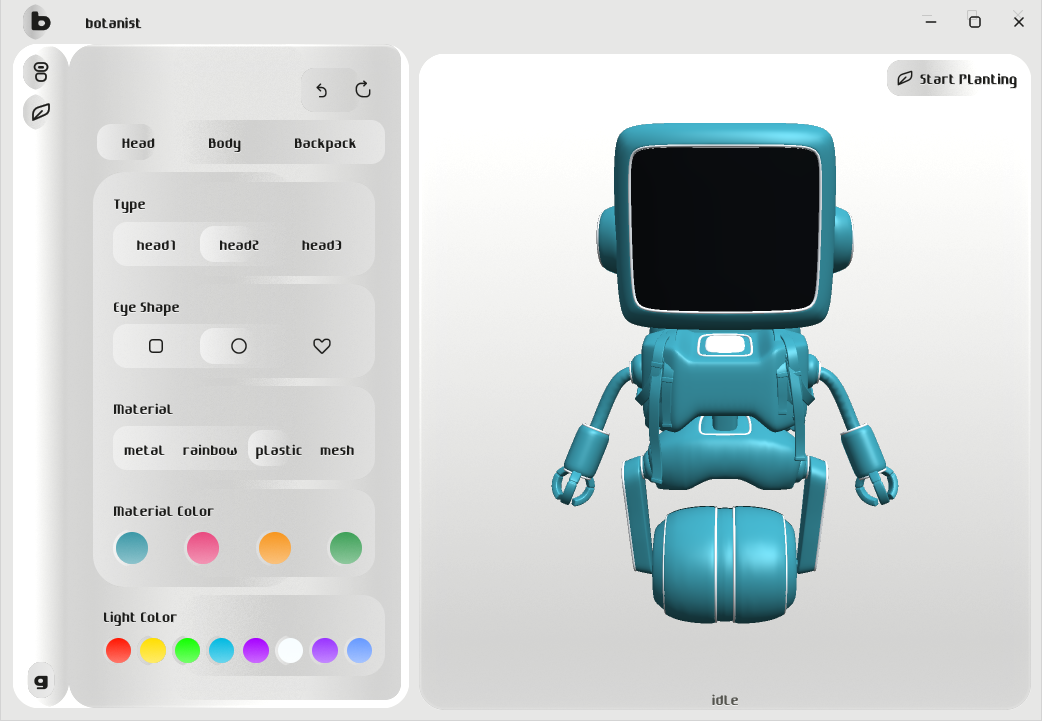
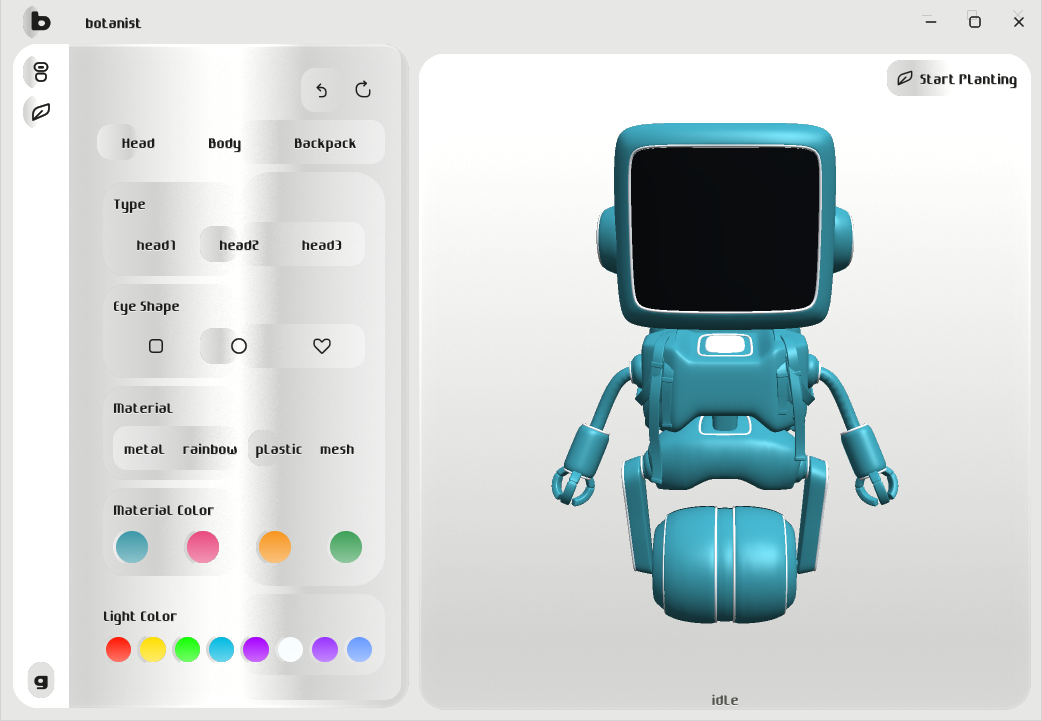
Lights: the bar the parent, every child against it, half reach
- light::bond: the bar and its menu are one pane with the bar's outer
  corners, lit from the right; the menu, its child, is lit against it
  from where it begins, with no corners at the seam.
- A stack's grounds are lit one way and what stands on them the other
  (stack and PDrawn carry the side); tabs and their ground against the
  column, their groups against the ground; bands fill a width lit
  either way.
- shade.reach is 0.5 in every app's theme.

diff --git a/crates/appkit/pui/layout/stack.rs b/crates/appkit/pui/layout/stack.rs
@@ -8,7 +8,7 @@
 //! The room round every group, its roundness and the least room between
 //! two are the theme's, the same for every app (`section.*`).
 
-use super::section::{ROUND, SIDE, TOP, ground};
+use super::section::{ROUND, SIDE, TOP, lit};
 use super::PDry;
 use crate::pui::block::{PBand, PTabMove};
 use crate::pui::core::light::label;
@@ -21,9 +21,10 @@ pub const INK: &str = "text.ink";
 pub const LINE: &str = "text.line";
 pub const GAP: &str = "gap";
 
-/// What a group draws under its heading, from a place across a width:
-/// where it ends, and what can be pressed in it.
-pub type PDrawn<'a> = Box<dyn FnMut(&mut dyn PPaint, PPoint, f32) -> (f32, Vec<PRect>) + 'a>;
+/// What a group draws under its heading, from a place across a width,
+/// lit from the right where told (against its ground): where it ends,
+/// and what can be pressed in it.
+pub type PDrawn<'a> = Box<dyn FnMut(&mut dyn PPaint, PPoint, f32, bool) -> (f32, Vec<PRect>) + 'a>;
 
 /// A group of a stack: its heading (none for none), and what it draws.
 pub struct PGrouped<'a> {
@@ -38,9 +39,10 @@ fn room(paint: &dyn PPaint) -> (f32, f32) {
 }
 
 /// Draw the groups from a place across a width (their grounds' edges),
-/// sharing out the room up to `end` between them. Where the last ends,
-/// and what can be pressed in each.
-pub fn stack(paint: &mut dyn PPaint, at: PPoint, wide: f32, end: f32, group: &mut [PGrouped]) -> (f32, Vec<Vec<PRect>>) {
+/// sharing out the room up to `end` between them, their grounds lit
+/// from the right (`right`) or the left, and what stands on them the
+/// other way. Where the last ends, and what can be pressed in each.
+pub fn stack(paint: &mut dyn PPaint, at: PPoint, wide: f32, end: f32, right: bool, group: &mut [PGrouped]) -> (f32, Vec<Vec<PRect>>) {
     let (side, top) = room(paint);
     let (line, gap, ink) = (paint.size(LINE), paint.size(GAP), paint.color(INK));
     let least = paint.theme().size(SPACE).unwrap_or(gap / 2.0);
@@ -49,16 +51,16 @@ pub fn stack(paint: &mut dyn PPaint, at: PPoint, wide: f32, end: f32, group: &mu
         true => 0.0,
         false => line + gap / 2.0,
     };
-    let tall: Vec<f32> = group.iter_mut().map(|g| head(g) + (g.draw)(&mut PDry(&*paint), PPoint::new(0.0, 0.0), inner).0).collect();
+    let tall: Vec<f32> = group.iter_mut().map(|g| head(g) + (g.draw)(&mut PDry(&*paint), PPoint::new(0.0, 0.0), inner, !right).0).collect();
     let total = tall.iter().sum::<f32>() + tall.len() as f32 * top * 2.0 + tall.len().saturating_sub(1) as f32 * least;
     let space = least + (end - at.y - total).max(0.0) / tall.len().saturating_sub(1).max(1) as f32;
     let (mut y, mut pressed) = (at.y, Vec::new());
     for (g, high) in group.iter_mut().zip(tall) {
         let from = PPoint::new(at.x + side, y + top);
-        ground(paint, from, inner, from.y + high);
+        lit(paint, from, inner, from.y + high, right);
         let below = head(g);
         (below > 0.0).then(|| paint.text(from, &g.head, ink));
-        pressed.push((g.draw)(paint, PPoint::new(from.x, from.y + below), inner).1);
+        pressed.push((g.draw)(paint, PPoint::new(from.x, from.y + below), inner, !right).1);
         y = from.y + high + top + space;
     }
     (y - space, pressed)
@@ -66,9 +68,9 @@ pub fn stack(paint: &mut dyn PPaint, at: PPoint, wide: f32, end: f32, group: &mu
 
 /// Tabs over a stack, from a place across a width to `end` (further,
 /// where they need more): the tabs at the top, and under them, a little
-/// apart, one ground holding the groups they choose. The ground is lit
-/// from the left, the groups' from the right, so each stands against
-/// what holds it. What can be pressed: the tabs, and in each group; and
+/// apart, one ground holding the groups they choose. The tabs and the
+/// ground are lit from the right, against the column they stand in; the
+/// groups from the left, against the ground. What can be pressed: the tabs, and in each group; and
 /// where the ground ends.
 pub fn tabbed<B: PBand + ?Sized>(paint: &mut dyn PPaint, at: PPoint, wide: f32, end: f32, tab: &B, motion: &PTabMove, group: &mut [PGrouped]) -> (Vec<PRect>, Vec<Vec<PRect>>, f32) {
     let (side, top) = room(paint);
@@ -78,9 +80,9 @@ pub fn tabbed<B: PBand + ?Sized>(paint: &mut dyn PPaint, at: PPoint, wide: f32, 
     let tabs = tab.draw_moving(paint, at, wide, from, to, share);
     let held = at.y + tab.high(paint) + least;
     let inner = wide - side * 2.0;
-    let need = stack(&mut PDry(&*paint), PPoint::new(at.x + side, held + top), inner, 0.0, group).0;
+    let need = stack(&mut PDry(&*paint), PPoint::new(at.x + side, held + top), inner, 0.0, false, group).0;
     let bottom = end.max(need + top);
-    label(paint, PRect::new(at.x, held, wide, bottom - held), radius, PLight::Rest, false, "");
-    let (_, pressed) = stack(paint, PPoint::new(at.x + side, held + top), inner, bottom - top, group);
+    label(paint, PRect::new(at.x, held, wide, bottom - held), radius, PLight::Rest, true, "");
+    let (_, pressed) = stack(paint, PPoint::new(at.x + side, held + top), inner, bottom - top, false, group);
     (tabs, pressed, bottom)
 }

diff --git a/crates/appkit/pui/form/kind.rs b/crates/appkit/pui/form/kind.rs
@@ -83,9 +83,11 @@ fn strength(variant: &str) -> PLight {
     }
 }
 
-/// What a block of a kind draws from a place across a width: where it
+/// What a block of a kind draws from a place across a width, lit from
+/// the right where told (against the ground it stands on): where it
 /// ends, and where each of its choices can be pressed.
-pub fn drawn(kind: &str, variant: &str, choice: &[PChoice], now: &str, paint: &mut dyn PPaint, at: PPoint, wide: f32) -> (f32, Vec<PRect>) {
+#[allow(clippy::too_many_arguments)]
+pub fn drawn(kind: &str, variant: &str, choice: &[PChoice], now: &str, paint: &mut dyn PPaint, at: PPoint, wide: f32, right: bool) -> (f32, Vec<PRect>) {
     match kind {
         "swatch" => {
             let colour: Vec<(PColor, bool)> = choice.iter().map(|c| (c.colour.unwrap_or_default(), c.value == now)).collect();
@@ -93,7 +95,7 @@ pub fn drawn(kind: &str, variant: &str, choice: &[PChoice], now: &str, paint: &m
             (end, rect)
         }
         "text" => (text(choice, paint, at, wide), Vec::new()),
-        "rows" => rows(variant, choice, now, paint, at, wide),
+        "rows" => rows(variant, choice, now, paint, at, wide, right),
         "cards" => {
             let (rect, end) = choice.draw(paint, at, wide);
             (end, rect)
@@ -101,7 +103,7 @@ pub fn drawn(kind: &str, variant: &str, choice: &[PChoice], now: &str, paint: &m
         "grid" => grid(choice, paint, at, wide),
         _ => {
             let pill: Vec<(&str, &str, bool)> = choice.iter().map(|c| (c.icon.as_str(), c.label.as_str(), c.value == now)).collect();
-            let rect = pill.draw_full(paint, at, wide);
+            let rect = pill.draw_full(paint, at, wide, right);
             (at.y + pill.high(paint), rect)
         }
     }
@@ -122,7 +124,7 @@ fn text(choice: &[PChoice], paint: &mut dyn PPaint, at: PPoint, wide: f32) -> f3
 }
 
 /// Rows, each lit from the left, a note and a level at the end.
-fn rows(variant: &str, choice: &[PChoice], now: &str, paint: &mut dyn PPaint, at: PPoint, wide: f32) -> (f32, Vec<PRect>) {
+fn rows(variant: &str, choice: &[PChoice], now: &str, paint: &mut dyn PPaint, at: PPoint, wide: f32, right: bool) -> (f32, Vec<PRect>) {
     let (gap, line, radius, dim) = (paint.size(GAP), paint.size(LINE), paint.size(RADIUS), paint.color(DIM));
     let high = paint.theme().size(ROW).unwrap_or(line * 2.0 + gap / 2.0);
     let mut rect = Vec::new();
@@ -132,7 +134,7 @@ fn rows(variant: &str, choice: &[PChoice], now: &str, paint: &mut dyn PPaint, at
             true => PLight::Strong,
             false => strength(variant),
         };
-        label(paint, r, radius, light, false, "");
+        label(paint, r, radius, light, right, "");
         let inner = r.inset(gap / 4.0);
         let right = inner.origin.x + inner.size.width - gap / 4.0;
         let note = paint.measure(&c.end);

diff --git a/crates/appkit/src/test/window/part/activity/draw.rs b/crates/appkit/src/test/window/part/activity/draw.rs
@@ -43,7 +43,7 @@ fn it_draws_the_mark_its_icons_the_user_and_the_menu_shown_under_the_app_s_name(
 }
 
 #[test]
-fn in_a_theme_with_light_the_bar_and_its_menu_are_one_pane_their_lights_meeting_and_every_icon_has_a_chip() {
+fn in_a_theme_with_light_the_bar_is_one_pane_its_menu_lit_against_it_and_every_icon_has_a_chip() {
     let look = PLook::read(&format!("{LOOK}color\tshade.light\t#ffffff\nsize\tshade.share\t0.5\nsize\tshade.rest\t0.5\nsize\tshade.soft\t0.25\ncolor\twindow.fill\t#eeeeee\nsize\tactivity.radius\t12\nsize\tactivity.corner\t16\n"));
     let mut sheet = PSheet::new(&look);
     bar().draw(BAR, SIDE, &picked("layout"), None, &mut sheet);
@@ -55,15 +55,15 @@ fn in_a_theme_with_light_the_bar_and_its_menu_are_one_pane_their_lights_meeting_
         PMark::Blend { rect, from, to, turn, .. } => Some((*rect, from.a, to.a, *turn)),
         _ => None,
     }).collect();
-    // The bar's light is nothing at the window's edge and a shade at rest
-    // where the menu begins; the menu's runs the other way from there, so
-    // where they meet is seen as a line between the two. What stands on
-    // the bar runs against it: the mark and the row whose menu is shown
-    // at full strength, the other rows at the light of rest, each a chip
-    // 37.5 square in the middle of its cell.
-    let (bar, menu) = (PRect::new(0.0, 0.0, 50.0, 600.0), PRect::new(50.0, 0.0, 200.0, 600.0));
+    // The bar is the parent: one pane, lit from the right, nothing at
+    // the window's edge. The menu it opens, its child, is lit against it
+    // from where it begins, so the line between them is where the menu's
+    // light begins. What stands on the bar runs against it too: the mark
+    // and the row whose menu is shown at full strength, the other rows at
+    // the light of rest, each a chip 37.5 square in the middle of its cell.
+    let menu = PRect::new(50.0, 0.0, 200.0, 600.0);
     let chip = |top: f32, from: f32| (PRect::new(6.25, top, 37.5, 37.5), from, 0.0, 90.0);
-    assert_eq!(lit[..7], [(bar, 0.0, 0.25, 90.0), (menu, 0.25, 0.0, 90.0), chip(6.25, 0.5), chip(51.25, 0.5), chip(91.25, 0.25), chip(281.25, 0.25), chip(511.25, 0.25)]);
+    assert_eq!(lit[..7], [(whole, 0.0, 0.25, 90.0), (menu, 0.25, 0.0, 90.0), chip(6.25, 0.5), chip(51.25, 0.5), chip(91.25, 0.25), chip(281.25, 0.25), chip(511.25, 0.25)]);
     // The user's mark is no light of its own but Phi-Soft's shape, as
     // large as a chip, in the light's colour at full strength; then
     // the menu's three groups.

diff --git a/crates/appkit/pui/block/band.rs b/crates/appkit/pui/block/band.rs
@@ -52,7 +52,7 @@ pub trait PBand {
     /// Draw it across the whole of a width: each pill is given the same
     /// share of what is left beside what it holds, so the band fills it.
     /// Too narrow for that, it is drawn as `draw_in` draws it.
-    fn draw_full(&self, paint: &mut dyn PPaint, at: PPoint, wide: f32) -> Vec<PRect> {
+    fn draw_full(&self, paint: &mut dyn PPaint, at: PPoint, wide: f32, right: bool) -> Vec<PRect> {
         let (gap, radius, list) = (paint.size(GAP), paint.size(RADIUS), self.pill());
         let count = list.len().max(1) as f32;
         let held: f32 = list.iter().map(|pill| pill.sized(paint, 0.0).width).sum();
@@ -60,11 +60,11 @@ pub trait PBand {
         match (room >= gap, list.is_empty()) {
             (_, true) => Vec::new(),
             (false, false) => self.draw_in(paint, at, wide),
-            // Lit against the section it stands on, so its edge shows and
-            // lines up with the heading over it.
+            // Lit against the ground it stands on (`right`), so its edge
+            // shows and lines up with the heading over it.
             (true, false) => {
                 let high = self.high(paint);
-                label(paint, PRect::new(at.x, at.y, wide, high), radius, PLight::Rest, false, "");
+                label(paint, PRect::new(at.x, at.y, wide, high), radius, PLight::Rest, right, "");
                 let mut left = at.x + gap / 4.0;
                 let place = |pill: &&dyn PPill| {
                     let rect = pill.lay(paint, PPoint::new(left, at.y + gap / 4.0), true, room);
@@ -83,7 +83,7 @@ pub trait PBand {
     fn draw_moving(&self, paint: &mut dyn PPaint, at: PPoint, wide: f32, from: usize, to: usize, share: f32) -> Vec<PRect> {
         let (gap, radius) = (paint.size(GAP), paint.size(RADIUS));
         let off: Vec<Off> = self.pill().into_iter().map(Off).collect();
-        let rect = off.draw_full(&mut PDry(&*paint), at, wide);
+        let rect = off.draw_full(&mut PDry(&*paint), at, wide, true);
         let (Some(first), Some(last)) = (rect.first(), rect.last()) else { return rect };
         let high = self.high(paint);
         // Tabs stand over the ground that holds what they choose, lit from

diff --git a/crates/appkit/pui/form.rs b/crates/appkit/pui/form.rs
@@ -108,7 +108,7 @@ impl PForm {
         let shown: Vec<(&Block, Vec<PChoice>, String)> = block.iter().map(|b| (*b, self.source.list(&b.list), self.source.get(&b.path))).filter(|(_, c, _)| !c.is_empty()).collect();
         let group = shown.iter().map(|(b, choice, now)| {
             let (kind, variant, choice, now) = (b.kind.clone(), b.variant.clone(), choice.clone(), now.clone());
-            PGrouped { head: self.text.get(&b.head).to_string(), draw: Box::new(move |paint: &mut dyn PPaint, at: PPoint, wide: f32| drawn(&kind, &variant, &choice, &now, paint, at, wide)) }
+            PGrouped { head: self.text.get(&b.head).to_string(), draw: Box::new(move |paint: &mut dyn PPaint, at: PPoint, wide: f32, right: bool| drawn(&kind, &variant, &choice, &now, paint, at, wide, right)) }
         }).collect();
         (group, shown.into_iter().map(|(b, c, _)| (b, c)).collect())
     }
@@ -136,7 +136,7 @@ impl PForm {
         let space = paint.theme().size(SPACE).unwrap_or(gap / 2.0);
         let high = match own.is_empty() {
             true => -space,
-            false => stack(&mut PDry(&*paint), PPoint::new(left, 0.0), wide, 0.0, &mut own).0,
+            false => stack(&mut PDry(&*paint), PPoint::new(left, 0.0), wide, 0.0, true, &mut own).0,
         };
         let mut end = top - space;
         for tabs in self.of("tabs") {
@@ -160,7 +160,7 @@ impl PForm {
                     true => foot - high,
                     false => end + space,
                 };
-                let (last, pressed) = stack(paint, PPoint::new(left, at), wide, foot.max(at + high), &mut own);
+                let (last, pressed) = stack(paint, PPoint::new(left, at), wide, foot.max(at + high), true, &mut own);
                 for (rect, (block, choice)) in pressed.into_iter().zip(&own_shown) {
                     spot.extend(rect.into_iter().zip(choice).map(|(r, c)| (r, block.path.clone(), c.value.clone())));
                 }

diff --git a/crates/appkit/src/test/layout/stack.rs b/crates/appkit/src/test/layout/stack.rs
@@ -10,7 +10,7 @@ const LOOK: &str = "color\tshade.light\t#ffffff\nsize\tshade.share\t0.5\nsize\ts
 
 /// Two groups, each a block so high, with a heading.
 fn two<'a>() -> Vec<PGrouped<'a>> {
-    let block = |high: f32| -> crate::pui::layout::PDrawn<'a> { Box::new(move |_: &mut dyn PPaint, at: PPoint, wide: f32| (at.y + high, vec![PRect::new(at.x, at.y, wide, high)])) };
+    let block = |high: f32| -> crate::pui::layout::PDrawn<'a> { Box::new(move |_: &mut dyn PPaint, at: PPoint, wide: f32, _: bool| (at.y + high, vec![PRect::new(at.x, at.y, wide, high)])) };
     vec![PGrouped { head: "One".to_string(), draw: block(40.0) }, PGrouped { head: "Two".to_string(), draw: block(40.0) }]
 }
 
@@ -19,12 +19,12 @@ fn groups_share_out_the_room_a_pane_has_left_between_them() {
     let look = PLook::read(LOOK);
     let mut sheet = PSheet::new(&look);
     // Each is a heading (20 and half a gap) and 40, with 10 over and under.
-    let (end, pressed) = stack(&mut sheet, PPoint::new(0.0, 0.0), 200.0, 0.0, &mut two());
+    let (end, pressed) = stack(&mut sheet, PPoint::new(0.0, 0.0), 200.0, 0.0, true, &mut two());
     assert_eq!(end, (10.0 + 28.0 + 40.0 + 10.0) * 2.0 + 8.0);
     // Inside its ground: 10 in from its edge, under its heading.
     assert_eq!(pressed[0], [PRect::new(10.0, 38.0, 180.0, 40.0)]);
     // Given more room, the second group moves down to fill it.
-    let (end, pressed) = stack(&mut PSheet::new(&look), PPoint::new(0.0, 0.0), 200.0, 400.0, &mut two());
+    let (end, pressed) = stack(&mut PSheet::new(&look), PPoint::new(0.0, 0.0), 200.0, 400.0, true, &mut two());
     assert_eq!(end, 400.0);
     assert_eq!(pressed[1][0].origin.y, 400.0 - 10.0 - 40.0);
 }

diff --git a/crates/appkit/pui/core/light.rs b/crates/appkit/pui/core/light.rs
@@ -127,19 +127,18 @@ pub fn edge(paint: &mut dyn PPaint, rect: PRect, radius: f32, end: bool, token: 
     }
 }
 
-/// Two panes side by side at an edge of the window, as a bar and the
-/// column it shows beside it: one glass (or ground) under both, the
-/// first lit toward the second and the second lit from where they meet
-/// the other way. The two lights run against each other, so where they
-/// meet is seen as a line between them, as a border would be, and the
-/// two are seen as one thing of two parts.
+/// A bar and the column it opens, the bar the parent: one pane, one
+/// shape with the bar's corners, lit from the right; the column, its
+/// child, lit against it from where it begins, so where the column's
+/// light begins is the line between them. Its light reaches no further
+/// than its middle, so it needs no corners of its own.
 pub fn bond(paint: &mut dyn PPaint, first: PRect, second: PRect, radius: f32, token: &str) {
     let whole = PRect::new(first.origin.x, first.origin.y, first.size.width + second.size.width, first.size.height.max(second.size.height));
     match PLight::Rest.shade(paint.theme()) {
         Some(_) => {
             under(paint, whole, radius);
-            label(paint, first, radius, PLight::Rest, true, token);
-            label(paint, second, radius, PLight::Rest, false, token);
+            label(paint, whole, radius, PLight::Rest, true, token);
+            label(paint, second, 0.0, PLight::Rest, false, token);
         }
         None => flat(paint, whole, radius, token),
     }

diff --git a/crates/appkit/app/phigen/src/test/part/mod.rs b/crates/appkit/app/phigen/src/test/part/mod.rs
@@ -42,7 +42,10 @@ fn everything_in_the_body_keeps_to_one_column_down_its_middle() {
         let button = lit(&mark, ask, 90.0, false);
         // Thirds of a width do not add up to it to the last bit.
         let near = |got: (f32, f32)| (got.0 - edge.0).abs() < 0.01 && (got.1 - edge.1).abs() < 0.01;
-        assert!(near((across(&field).0, across(&button).1)), "{size:?}");
+        // A button's light reaches as far across it as the theme says.
+        let reach = appkit::theme::PTheme::size(look.as_ref(), "shade.reach").unwrap_or(1.0);
+        let (from, to) = across(&button);
+        assert!(near((across(&field).0, from + (to - from) / reach)), "{size:?}");
         assert!(near(across(&lit(&mark, card, 0.0, false))), "{size:?}");
         // The heading over the field is in the middle too.
         let sheet = PSheet::new(look.as_ref());
@@ -57,7 +60,8 @@ fn everything_in_the_body_keeps_to_one_column_down_its_middle() {
         let (mark, talk, ask) = (drawn(&stage, &look), rect(&stage, "talk"), rect(&stage, "ask"));
         let turn = [lit(&mark, talk, 90.0, false), lit(&mark, talk, 90.0, true)].concat();
         assert!(near(across(&turn)), "{size:?}");
-        assert!(near((across(&lit(&mark, ask, 0.0, false)).0, across(&lit(&mark, ask, 90.0, false)).1)));
+        let (from, to) = across(&lit(&mark, ask, 90.0, false));
+        assert!(near((across(&lit(&mark, ask, 0.0, false)).0, from + (to - from) / reach)));
     }
 }
 

diff --git a/crates/appkit/app/phigen/src/test/flow/bar.rs b/crates/appkit/app/phigen/src/test/flow/bar.rs
@@ -40,10 +40,11 @@ fn step_31_home_and_chat_are_at_the_top_menu_in_the_middle_and_i_am_at_the_foot(
     let text = shown(&stage, &look);
     assert!(["Search", "Model", "Appearance", "Light", "Dark", "Glass", "Glass Light", "Settings", "Profile"].iter().all(|row| text.contains(&row.to_string())), "{text:?}");
     assert!(!part(&stage).contains(&"thread"));
-    // They are lit from the right, against the bar's icons beside them
-    // (appkit's shared menu, 23 November 2026).
+    // The bar is one pane with its menu, lit from the right and reaching
+    // half way; the menu's groups are lit from the right too, each
+    // reaching half way across (appkit's shared menu, 24 November 2026).
     let ground = lit(&drawn(&stage, &look), stage.frame().menu, 90.0, true);
-    assert_eq!(ground, [PRect::new(72.0, 44.0, 184.0, 96.0), PRect::new(72.0, 270.0, 184.0, 216.0), PRect::new(72.0, 608.0, 184.0, 96.0)]);
+    assert_eq!(ground, [PRect::new(136.0, 44.0, 128.0, 668.0), PRect::new(164.0, 44.0, 92.0, 96.0), PRect::new(164.0, 270.0, 92.0, 216.0), PRect::new(164.0, 608.0, 92.0, 96.0)]);
     // A look is chosen there, and the settings and my profile opened.
     assert!(row(&mut stage, &look, "Dark"));
     assert_eq!(app.desk().shade.name(), "dark");

diff --git a/crates/appkit/pui/layout/section.rs b/crates/appkit/pui/layout/section.rs
@@ -49,11 +49,17 @@ impl PPaint for PDry<'_> {
 /// the right, against the pane it stands in. Nothing for a section
 /// with nothing in it.
 pub fn ground(paint: &mut dyn PPaint, at: PPoint, wide: f32, end: f32) {
+    lit(paint, at, wide, end, true);
+}
+
+/// The same ground, lit from the right (`right`) or from the left: a
+/// ground lit against the one it stands on.
+pub fn lit(paint: &mut dyn PPaint, at: PPoint, wide: f32, end: f32, right: bool) {
     let (gap, theme) = (paint.size(GAP), paint.theme());
     let (side, top) = (theme.size(SIDE).unwrap_or(gap / 2.0), theme.size(TOP).unwrap_or(gap / 4.0));
     let radius = theme.size(ROUND).unwrap_or(paint.size(RADIUS));
     if end > at.y {
-        label(paint, PRect::new(at.x - side, at.y - top, wide + side * 2.0, end - at.y + top * 2.0), radius, PLight::Soft, true, "");
+        label(paint, PRect::new(at.x - side, at.y - top, wide + side * 2.0, end - at.y + top * 2.0), radius, PLight::Soft, right, "");
     }
 }
 

diff --git a/crates/appkit/pui/state.rs b/crates/appkit/pui/state.rs
@@ -66,8 +66,11 @@ impl PState for PMemory {
 /// app's world answers by path, handed over without a type of its own.
 pub struct PFn {
     pub get: Box<dyn Fn(&str) -> String>,
-    pub set: Box<dyn Fn(&str, &str)>,
+    pub set: PSetter,
 }
+
+/// What keeps a value at a path, for `PFn`.
+pub type PSetter = Box<dyn Fn(&str, &str)>;
 
 impl PState for PFn {
     fn get(&self, path: &str) -> String {
